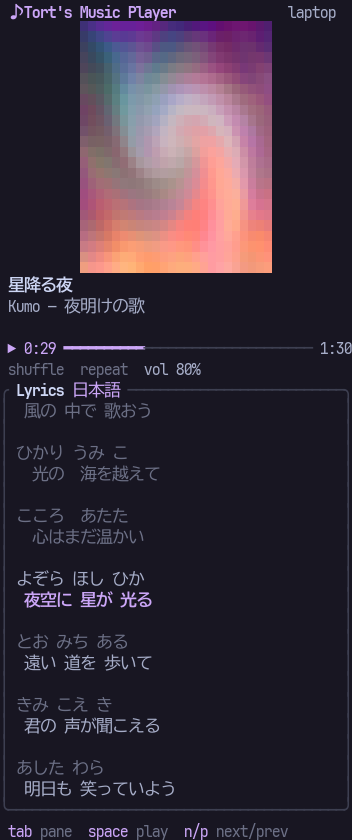
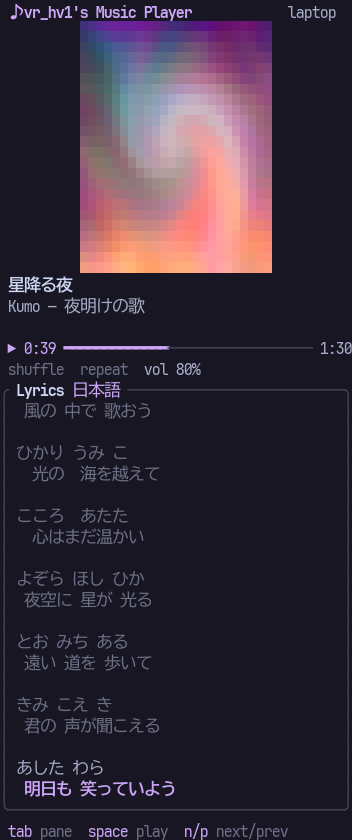
feat: vr_hv1's Music Player name; vrmusic command
- Shown as "vr_hv1's Music Player" (window, header, notifications,
  media controls, desktop entry, phone page)
- The terminal client is now `vrmusic-tui`
- New `vrmusic` script: runs the terminal client in a tmux session
  called "music", or returns to it (switching instead of nesting when
  already inside tmux); without tmux it just runs the client.
  `make install` installs it.
- Screenshots retaken with the new name

The desktop program, its config directory and the MPRIS name stay
`lavanda`, so settings, library data and playerctl setups carry over.

diff --git a/src/tui/phone.html b/src/tui/phone.html
@@ -8,7 +8,7 @@
 <meta name="apple-mobile-web-app-title" content="Music">
 <meta name="theme-color" content="#14121c">
 <link rel="apple-touch-icon" href="icon.png">
-<title>Tort's Music Player</title>
+<title>vr_hv1's Music Player</title>
 <style>
   :root { --bg: #14121c; --text: #ece8f6; --dim: #a59fb8; --accent: #c4a7ff; --card: rgba(255,255,255,.07); }
   * { box-sizing: border-box; -webkit-tap-highlight-color: transparent; }
@@ -49,7 +49,7 @@
 <body>
 <div id="backdrop"></div>
 <main>
-  <header><span><span id="dot"></span><span id="conn">Connecting…</span></span><span>Tort's Music Player</span></header>
+  <header><span><span id="dot"></span><span id="conn">Connecting…</span></span><span>vr_hv1's Music Player</span></header>
   <img id="cover" alt="">
   <div class="meta"><p id="title">Nothing playing</p><p id="artist">Choose a song in the terminal client</p></div>
   <div class="bar"><span id="pos">0:00</span><input id="seek" type="range" min="0" max="1" step="0.1" value="0"><span id="dur">0:00</span></div>
@@ -251,7 +251,7 @@ function connect() {
   es.addEventListener("lyrics", (e) => applyLyrics(JSON.parse(e.data)));
   es.onerror = () => { $("dot").classList.remove("on"); $("conn").textContent = "Reconnecting…"; };
 }
-if (!key) showTap("This link is missing its key. Open the link shown by lavanda-tui (press o).");
+if (!key) showTap("This link is missing its key. Press o in the terminal player (vrmusic) and open the address it shows.");
 else connect();
 </script>
 </body>

diff --git a/src/tui/pair.html b/src/tui/pair.html
@@ -5,7 +5,7 @@
 <meta name="viewport" content="width=device-width, initial-scale=1, viewport-fit=cover">
 <meta name="theme-color" content="#14121c">
 <link rel="apple-touch-icon" href="icon.png">
-<title>Tort's Music Player</title>
+<title>vr_hv1's Music Player</title>
 <style>
   :root { --bg: #14121c; --text: #ece8f6; --dim: #a59fb8; --accent: #c4a7ff; --card: rgba(255,255,255,.07); --bad: #ef8aa1; }
   * { box-sizing: border-box; }
@@ -26,7 +26,7 @@
 <body>
 <main>
   <img src="icon.png" alt="">
-  <h1>Tort's Music Player</h1>
+  <h1>vr_hv1's Music Player</h1>
   <p>Enter the code shown in the terminal player<br>(press <b>o</b> there to see it).</p>
   <form action="pair" method="get" autocomplete="off">
     <input name="code" inputmode="numeric" pattern="[0-9 ]*" maxlength="7" autocomplete="one-time-code" autofocus required aria-label="Code">

diff --git a/src/tui/main.rs b/src/tui/main.rs
@@ -1,4 +1,4 @@
-//! lavanda-tui: the terminal client of Tort's Music Player.
+//! vrmusic-tui: the terminal client of vr_hv1's Music Player (`vrmusic` runs it in tmux).
 //!
 //! Shares the GUI's code (audio engine, library, lyrics, YouTube, playlists,
 //! themes) and its settings and library data in `~/.config/lavanda`. Over SSH
@@ -59,7 +59,7 @@ fn main() -> io::Result<()> {
     if let Some(arg) = std::env::args().nth(1) {
         match arg.as_str() {
             "--version" | "-V" => {
-                println!("lavanda-tui {VERSION}");
+                println!("vrmusic-tui {VERSION}");
                 return Ok(());
             }
             "--phone" => start_on_phone = true,
@@ -68,7 +68,7 @@ fn main() -> io::Result<()> {
                 println!("Music player for the terminal, with synced lyrics and phone playback.");
                 println!();
                 println!("USAGE:");
-                println!("    lavanda-tui [--phone]");
+                println!("    vrmusic-tui [--phone]      (or `vrmusic`, which runs it inside tmux)");
                 println!();
                 println!("OPTIONS:");
                 println!("        --phone      Start with the music playing on your phone");
@@ -80,8 +80,8 @@ fn main() -> io::Result<()> {
                 return Ok(());
             }
             other => {
-                eprintln!("lavanda-tui: unknown option '{other}'");
-                eprintln!("Try 'lavanda-tui --help'.");
+                eprintln!("vrmusic-tui: unknown option '{other}'");
+                eprintln!("Try 'vrmusic-tui --help'.");
                 std::process::exit(1);
             }
         }

diff --git a/src/tui/phone.rs b/src/tui/phone.rs
@@ -410,7 +410,7 @@ async fn handle(mut sock: TcpStream, ctx: Arc<Ctx>) -> std::io::Result<()> {
                 };
                 respond(&mut sock, "303 See Other", &[("Location", to), ("Cache-Control", "no-store".into())], b"").await
             }
-            _ => respond(&mut sock, "403 Forbidden", &[("Content-Type", "text/plain".into())], b"This needs the player's key: open the address shown by lavanda-tui.").await,
+            _ => respond(&mut sock, "403 Forbidden", &[("Content-Type", "text/plain".into())], b"This needs the player's key: open the address shown by the terminal player (vrmusic).").await,
         };
     }
 

diff --git a/src/tui/view.rs b/src/tui/view.rs
@@ -191,7 +191,7 @@ pub fn draw(f: &mut Frame, app: &mut App) {
 }
 
 fn draw_header(f: &mut Frame, app: &App, area: Rect, p: Pal) {
-    let title = Span::styled(" ♪ Tort's Music Player ", Style::default().fg(p.accent).add_modifier(Modifier::BOLD));
+    let title = Span::styled(format!(" ♪ {} ", crate::audio::mpris::APP_NAME), Style::default().fg(p.accent).add_modifier(Modifier::BOLD));
     let output = match app.output {
         Output::Laptop => Span::styled(" laptop ", Style::default().fg(p.sub)),
         Output::Phone => Span::styled(" ▶ phone ", Style::default().fg(Color::Black).bg(p.accent)),

diff --git a/src/audio/mpris.rs b/src/audio/mpris.rs
@@ -27,9 +27,9 @@ pub enum MprisUpdate {
 }
 
 /// The player's display name: window title, header, notifications and the
-/// MPRIS identity. Defined here, not in app.rs, because lavanda-tui compiles
+/// MPRIS identity. Defined here, not in app.rs, because the terminal client compiles
 /// this file too. (The MPRIS bus name stays `lavanda` for playerctl.)
-pub const APP_NAME: &str = "Tort's Music Player";
+pub const APP_NAME: &str = "vr_hv1's Music Player";
 
 pub fn launch(
     cmd_tx: mpsc::UnboundedSender<MprisCommand>,

diff --git a/README.md b/README.md
@@ -5,7 +5,7 @@
 # vr_hv1's music client
 
 **A fast, native Linux music player with synced lyrics, furigana, romaji and YouTube downloads,**
-**on your desktop, in a terminal, and on your phone.** It shows up on your desktop as *Tort's Music Player*.
+**on your desktop, in a terminal, and on your phone.** It shows up on your desktop as *vr_hv1's Music Player*.
 
 [![License: MIT](https://img.shields.io/badge/license-MIT-yellow.svg)](LICENSE)
 [![Rust 1.89+](https://img.shields.io/badge/rust-1.89%2B-orange.svg)](https://www.rust-lang.org)
@@ -78,7 +78,7 @@ Japanese music.
 - Desktop notifications when the track changes.
 
 **Terminal and phone**
-- **Terminal client** (`lavanda-tui`) with the same library, lyrics, furigana, romaji, YouTube and
+- **Terminal client** (`vrmusic`) with the same library, lyrics, furigana, romaji, YouTube and
   playlists, album art drawn in the terminal, and mouse/touch support. It fits a phone screen over SSH.
 - **Listen on your phone**: press `o` and the music plays in your phone's browser (lock-screen controls,
   synced lyrics), reached privately over Tailscale or an SSH tunnel.
@@ -100,8 +100,8 @@ make install
 ```
 
 Then install the [UDEV Gothic NF](#fonts) font, make sure `~/.local/bin` is on your `PATH`, and launch
-**Tort's Music Player** from your app launcher or run `lavanda`. Your music is read from `~/Music`.
-In a terminal (or over SSH), run `lavanda-tui`.
+**vr_hv1's Music Player** from your app launcher or run `lavanda`. Your music is read from `~/Music`.
+In a terminal (or over SSH), run `vrmusic`.
 
 ## Requirements
 
@@ -141,7 +141,7 @@ Everything below is optional. When a tool is missing, the app keeps working with
 | Live theme following | [Omarchy](https://omarchy.org) | — | — | — |
 | Command-line control | `playerctl` | `playerctl` | `playerctl` | `playerctl` |
 | [Listening on your phone](#listen-on-your-phone) without an SSH tunnel | [Tailscale](https://tailscale.com) on the computer and the phone | `tailscale` | [tailscale.com/download](https://tailscale.com/download) | `tailscale` |
-| Keeping the terminal client running when SSH disconnects | `tmux` | `tmux` | `tmux` | `tmux` |
+| Keeping the terminal client running when SSH disconnects (`vrmusic` uses it when installed) | `tmux` | `tmux` | `tmux` | `tmux` |
 | Phone playback of OGG, Opus and other formats Safari can't play | `ffmpeg` | `ffmpeg` | `ffmpeg` | `ffmpeg` (RPM Fusion) |
 
 ### Fonts
@@ -165,7 +165,7 @@ make install          # builds in release mode, installs to ~/.local
 | File | Location |
 |---|---|
 | desktop app | `~/.local/bin/lavanda` |
-| terminal client | `~/.local/bin/lavanda-tui` |
+| terminal client, and `vrmusic`, which runs it in tmux | `~/.local/bin/vrmusic-tui`, `~/.local/bin/vrmusic` |
 | app launcher entry | `~/.local/share/applications/lavanda.desktop` |
 | icon | `~/.local/share/icons/hicolor/{scalable,256x256}/apps/tort-music-player.*` |
 
@@ -225,7 +225,7 @@ select several.
 
 ![The terminal client: library, songs, and synced lyrics with furigana; album art in the player bar](docs/screenshots/terminal.png)
 
-`lavanda-tui` is the same player for the terminal: it uses the same library, playlists, likes, lyric
+`vrmusic` opens the same player in the terminal: it uses the same library, playlists, likes, lyric
 timing fixes and settings as the desktop app (run one of the two at a time). It works in any terminal
 with 24-bit colour, including SSH apps on phones, and adapts to the size of the screen:
 
@@ -276,12 +276,13 @@ land on the player, whose link now carries the key: tap **Share › Add to Home 
 enter the code. On an iPhone the tunnel stops a short while after you switch away from the SSH app, so
 Tailscale works better there.
 
-**Over SSH, run it inside tmux** (`tmux new -A -s music lavanda-tui`), so the player keeps going when the
-SSH app on your phone is suspended; `tmux attach -t music` brings it back.
+**Over SSH, start it with `vrmusic`**: it runs the player inside tmux, so the player keeps going when the
+SSH app on your phone is suspended, and running `vrmusic` again takes you back to it. (`vrmusic-tui` runs
+the player directly, without tmux.)
 
 Tips: the first song needs a tap (phones don't start sound on their own). With the phone locked, songs
 still move on by themselves and the lock-screen buttons work; commands from the terminal reach the page
-when it's back on screen. `lavanda-tui --phone` starts straight in phone mode.
+when it's back on screen. `vrmusic --phone` starts straight in phone mode.
 
 ## Configuration
 

diff --git a/CHANGELOG.md b/CHANGELOG.md
@@ -8,7 +8,7 @@ All notable changes to this project. The format follows
 
 ### Added
 
-- **Terminal client** (`lavanda-tui`), rebuilt on the desktop app's code: library by songs, artists,
+- **Terminal client** (`vrmusic-tui`), rebuilt on the desktop app's code: library by songs, artists,
   albums, genres, liked, recently and most played, and playlists; search; synced lyrics with timing
   fixes, the Japanese ⇄ romaji switch and furigana; YouTube search and download; playlists (create, add,
   remove, rename, delete, CSV export and import); tag editing; settings and themes (including the live
@@ -19,9 +19,14 @@ All notable changes to this project. The format follows
   protected by a secret key. The phone connects with a short address and a 6-digit code instead of a
   long link (which phone terminals cut off when they wrap it). Formats Safari can't play are converted
   with ffmpeg.
+- `vrmusic`: starts the terminal client inside tmux (or returns to it), so it keeps playing when an SSH
+  connection drops; without tmux it just runs the client.
 - `phone_port` setting.
 
 ### Changed
+
+- Shown as **vr_hv1's Music Player** (window, header, notifications, media controls, phone page).
+  The desktop program stays `lavanda`, as do its config directory and MPRIS name.
 
 - Album-cover squaring moved to a shared module (`src/cover.rs`), used by both programs.
 

diff --git a/CONTRIBUTING.md b/CONTRIBUTING.md
@@ -20,7 +20,7 @@ Install the [build requirements](README.md#to-build), then:
 make            # release build of both programs
 make test       # run the tests
 make run        # build and start the desktop app
-make run-tui    # build and start the terminal client
+make run-tui    # build and start the terminal client (vrmusic-tui)
 ```
 
 `cargo build` gives a faster debug build while you work. The terminal client (`src/tui/`) includes the
